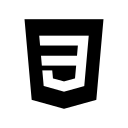
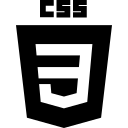
Ajustement du format des images et ajout d'effets divers

diff --git a/src/components/Header/Header-style.js b/src/components/Header/Header-style.js
@@ -28,10 +28,10 @@ export const StyledLink = styled.a`
   font-size: 13px;
   letter-spacing: 2px;
   color: #5b5963;
-  transition: 200ms;
+  transition: all 0.3s;
 
   &.active {
-    background: #333;
+    background: black;
     color: #ffffff;
   }
 

diff --git a/src/components/Competences/Competences-style.js b/src/components/Competences/Competences-style.js
@@ -77,4 +77,10 @@ export const ToolsCard = styled.div`
   width: 100%;
   background: white;
   box-shadow: 0 0 10px 2px rgba(255, 255, 255, 0.5);
+  transition: all 0.3s;
+
+  &:hover {
+    transform: scale(1.05);
+    filter: invert(100%);
+  }
 `;

diff --git a/src/components/Portfolio/Portfolio-style.js b/src/components/Portfolio/Portfolio-style.js
@@ -139,7 +139,7 @@ export const ProjectContent = styled.div`
 
   & .project-link {
     padding: 10px 20px;
-    background: #333;
+    background: black;
     border-radius: 25px;
     color: #f5f5f7;
     font-size: 18px;

diff --git a/src/components/Footer/Footer-style.js b/src/components/Footer/Footer-style.js
@@ -18,4 +18,9 @@ export const StyledIcon = styled(FontAwesomeIcon)`
   border: 1px solid #333;
   border-radius: 50%;
   color: #333;
+  transition: transform 0.3s;
+
+  &:hover {
+    transform: scale(1.5);
+  }
 `;
